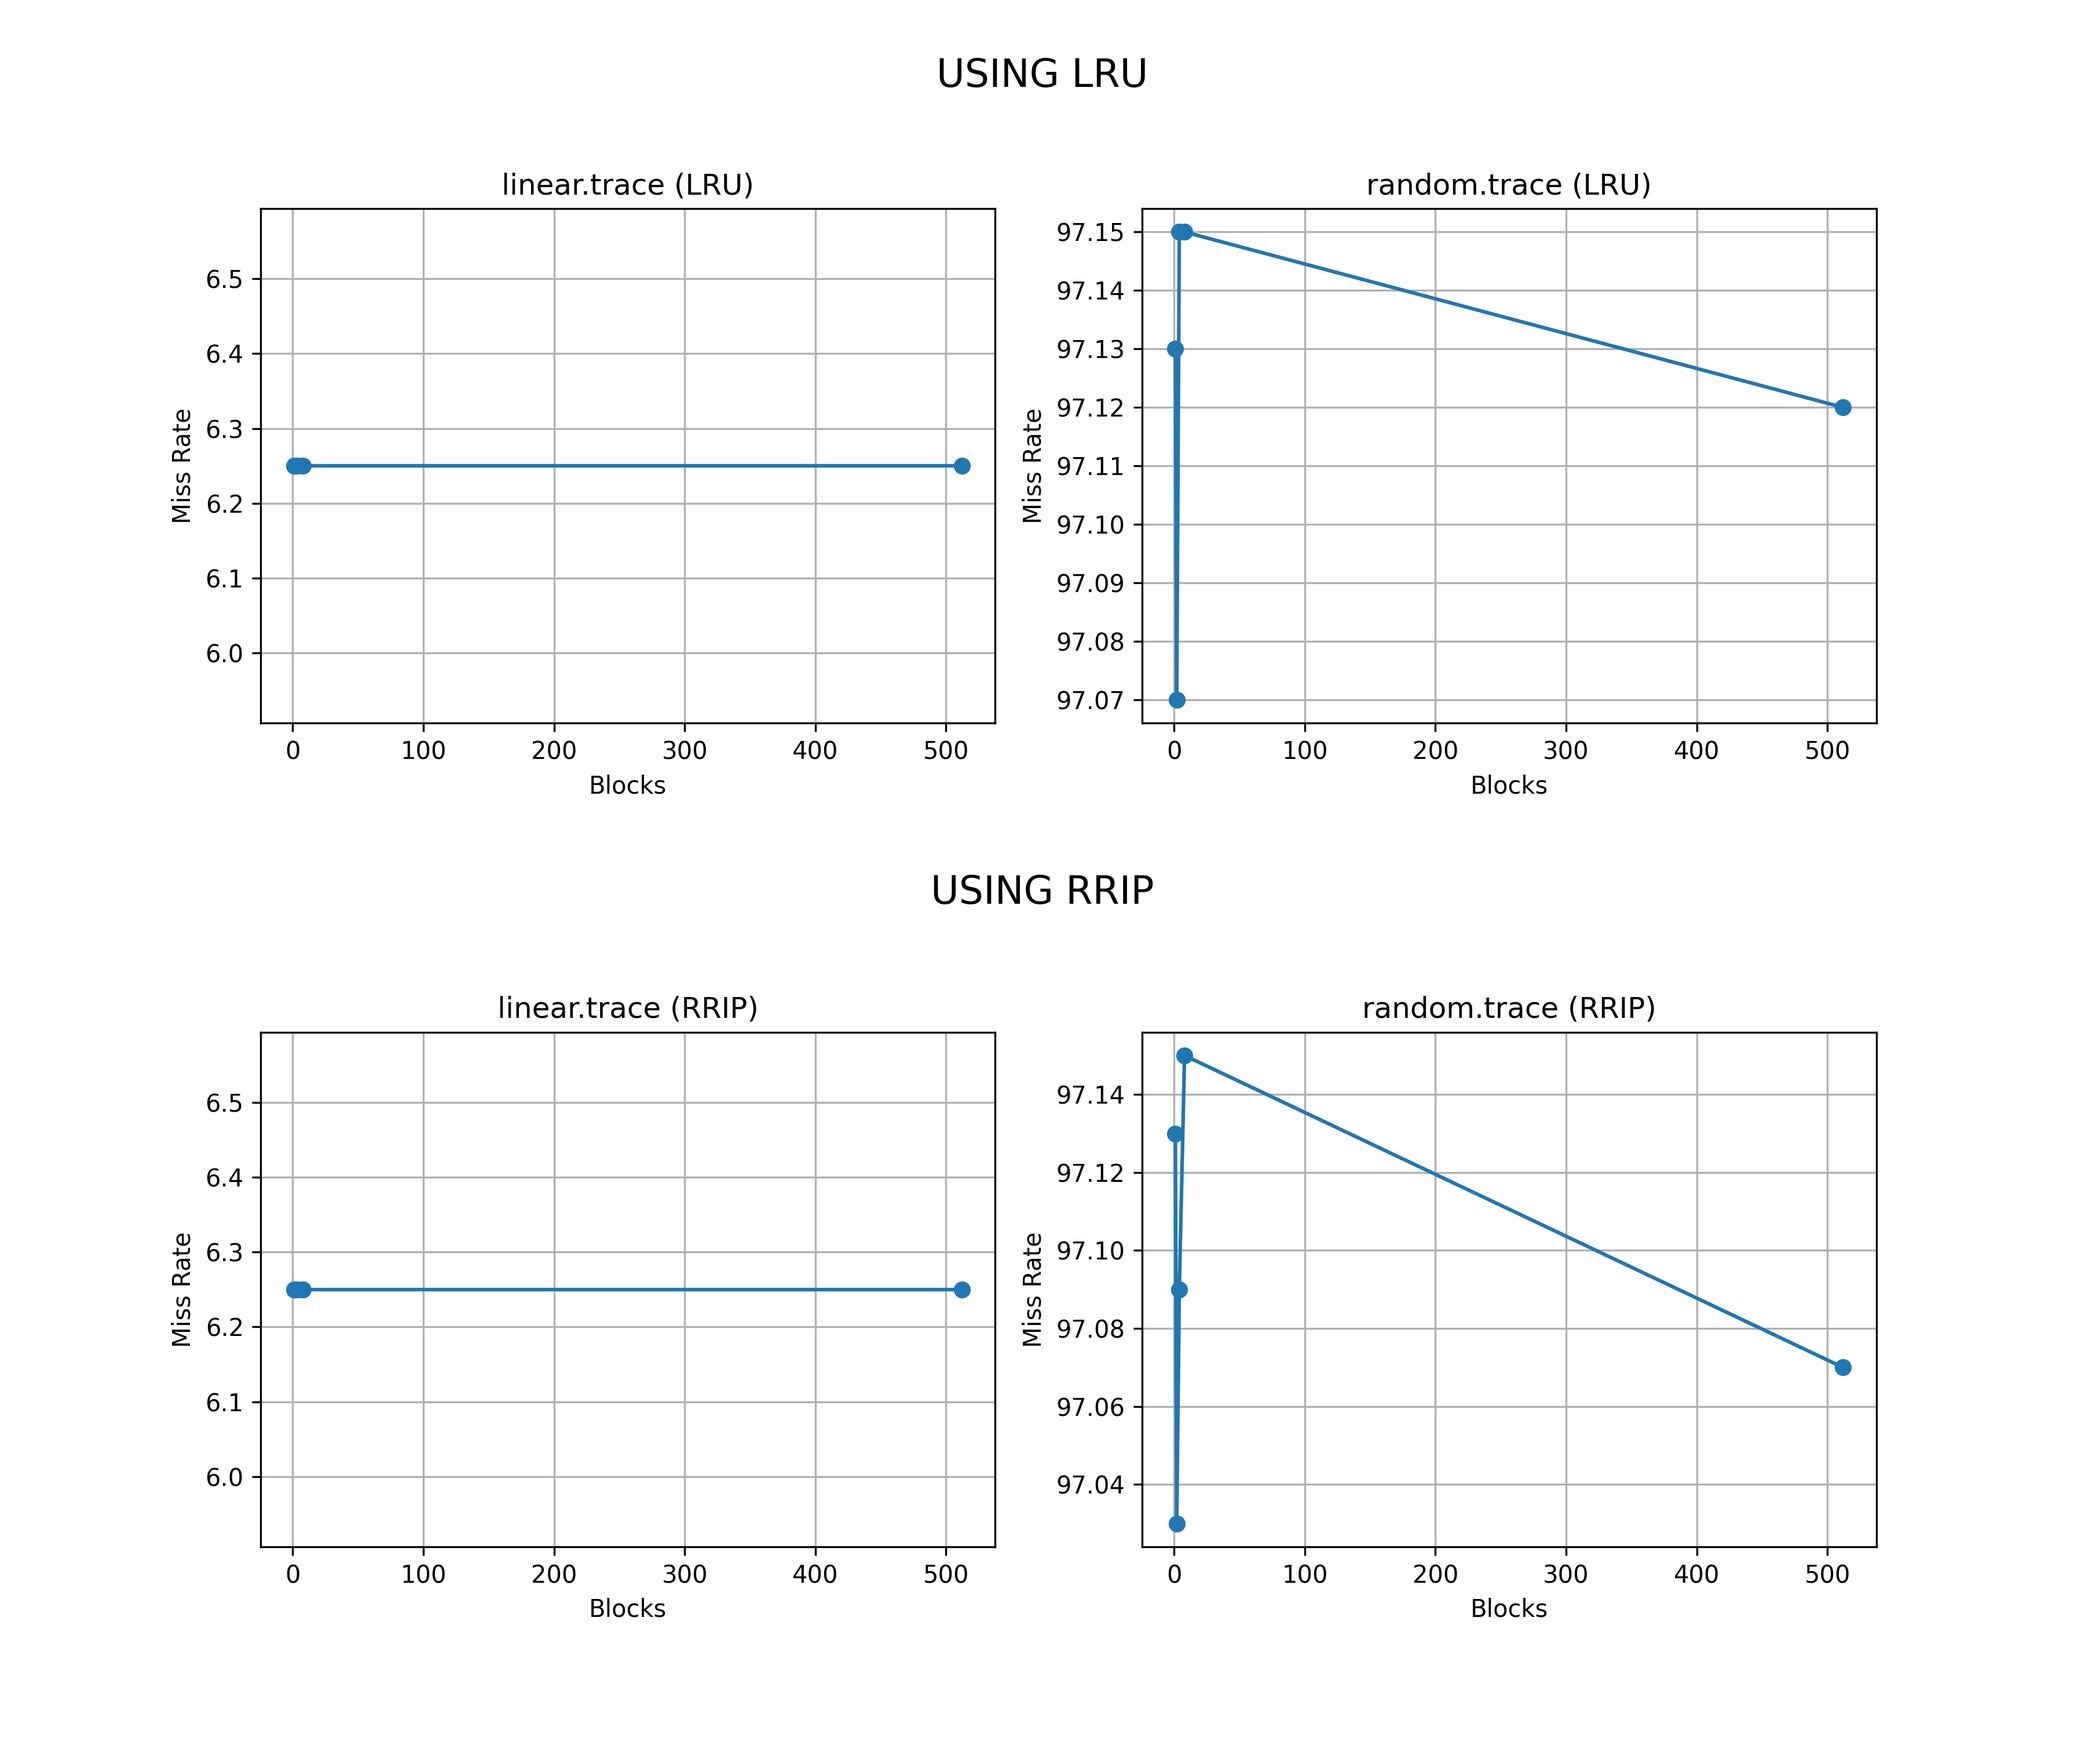
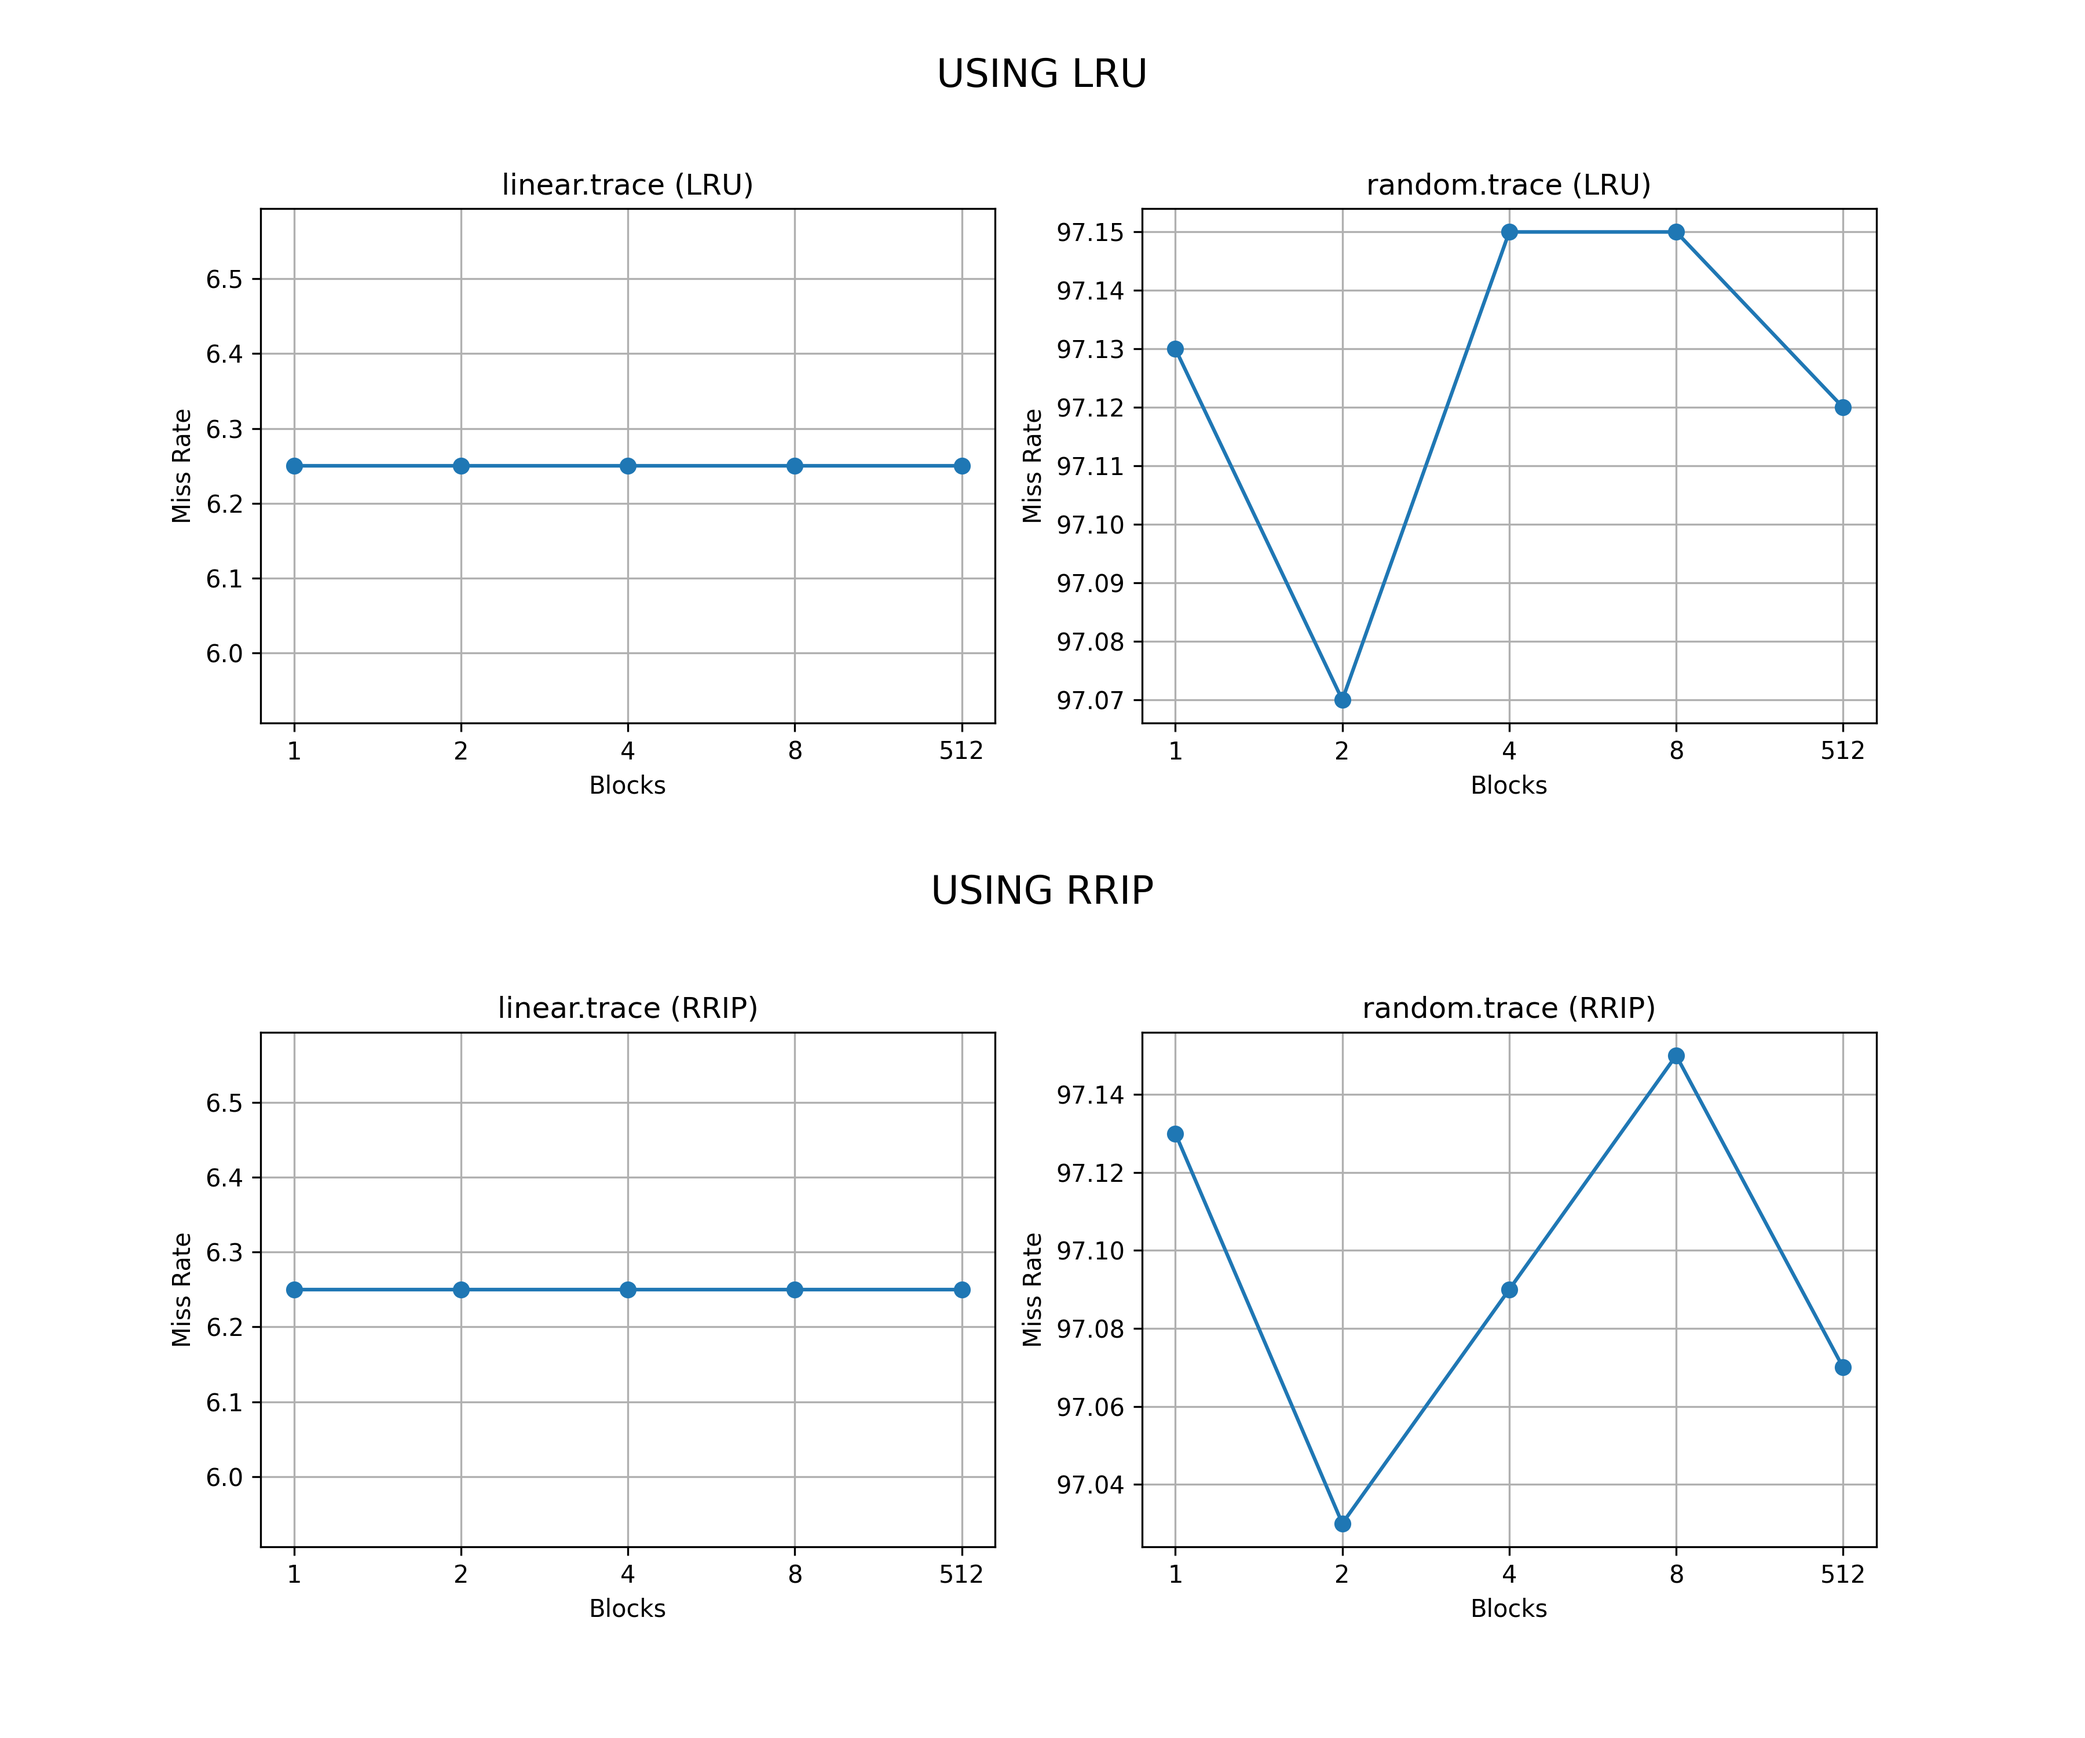
Me fix graph, me like bagel

diff --git a/analyze.py b/analyze.py
@@ -72,21 +72,26 @@ for file in files:
 
 fig, axes = plt.subplots(2, 2, figsize=(12, 10))
 
-# ---- TOP ROW: LRU ----
+x_positions = list(range(len(blocks)))
+x_labels = [str(b) for b in blocks]
+
 for i, file in enumerate(files):
     miss_rates = lru_results[file]
 
-    axes[0][i].plot(blocks, miss_rates, marker='o')
+    axes[0][i].plot(x_positions, miss_rates, marker='o')
+    axes[0][i].set_xticks(x_positions)
+    axes[0][i].set_xticklabels(x_labels)
     axes[0][i].set_xlabel("Blocks")
     axes[0][i].set_ylabel("Miss Rate")
     axes[0][i].set_title(f"{file} (LRU)")
     axes[0][i].grid()
 
-# ---- BOTTOM ROW: RRIP ----
 for i, file in enumerate(files):
     miss_rates = rrip_results[file]
 
-    axes[1][i].plot(blocks, miss_rates, marker='o')
+    axes[1][i].plot(x_positions, miss_rates, marker='o')
+    axes[1][i].set_xticks(x_positions)
+    axes[1][i].set_xticklabels(x_labels)
     axes[1][i].set_xlabel("Blocks")
     axes[1][i].set_ylabel("Miss Rate")
     axes[1][i].set_title(f"{file} (RRIP)")
